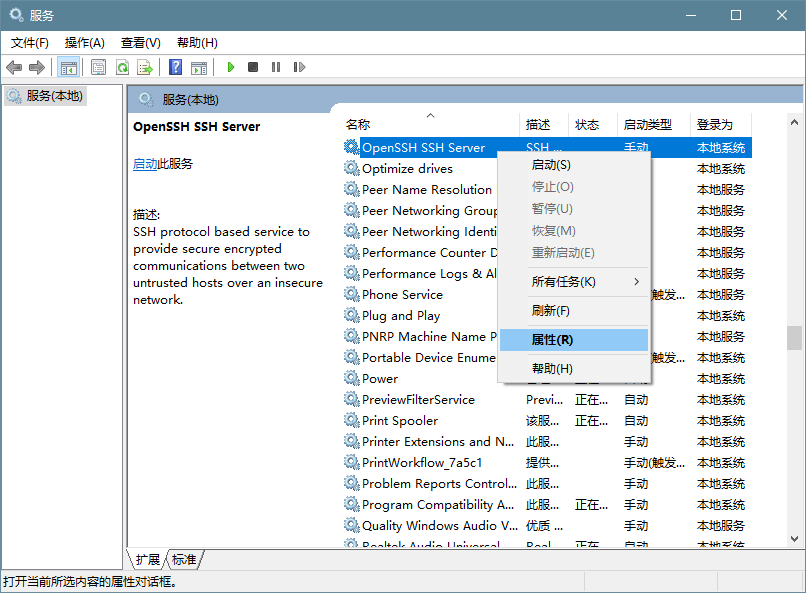
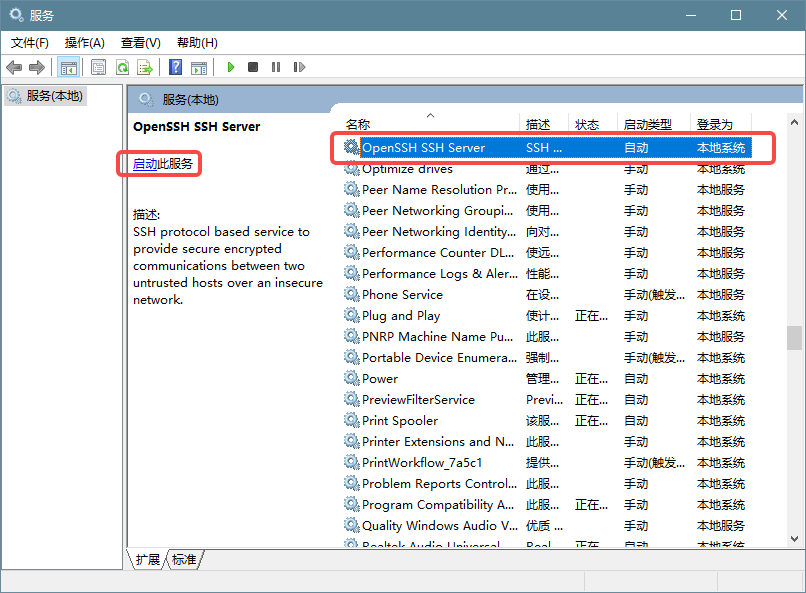
update

Changed region(s): [[0.4032, 0.2125, 0.9615, 0.6678], [0.1241, 0.2428, 0.2481, 0.3035], [0.0, 0.9713, 0.2171, 1.0]]

diff --git a/_posts/配置 Windows 为 SSH 跳板机.md b/_posts/配置 Windows 为 SSH 跳板机.md
@@ -60,6 +60,36 @@ Windows 里 OpenSSH 客户端通常是自带的，但是 OpenSSH 服务器需要
 
 ## 3. 启动 OpenSSH 服务
 
+
+
+这里图形界面和命令行都能完成，随便选个就 OK。
+
+
+
+### 3.1. 图形界面方式
+
+首先在开始菜单里搜索“服务”并打开：
+
+
+
+![打开“服务”](https://gukaifeng.cn/posts/pei-zhi-windows-wei-ssh-tiao-ban-ji/pei-zhi-windows-wei-ssh-tiao-ban-ji_5.png)
+
+
+
+在右侧找到 OpenSSH SSH Server 项，点击左面的“启动”。
+
+
+
+![启动 SSH 服务](https://gukaifeng.cn/posts/pei-zhi-windows-wei-ssh-tiao-ban-ji/pei-zhi-windows-wei-ssh-tiao-ban-ji_6.png)
+
+\-
+
+如果后面不需要了，关闭的方法也是一样的，启动后上图的“启动”的位置会变成“停止”，点一下就关了。
+
+
+
+### 3.2. 命令行方式
+
 以管理员身份打开 PowerShell 或 CMD，输入命令：
 
 ```powershell
@@ -197,13 +227,13 @@ Last login: Mon Apr 10 20:36:55 2023 from 192.168.80.1
 
 找到 OpenSSH SSH Server 项，右键选择“属性”：
 
-![打开 OpenSSH SSH Server 的属性](https://gukaifeng.cn/posts/pei-zhi-windows-wei-ssh-tiao-ban-ji/pei-zhi-windows-wei-ssh-tiao-ban-ji_6.png)
+![打开 OpenSSH SSH Server 的属性](https://gukaifeng.cn/posts/pei-zhi-windows-wei-ssh-tiao-ban-ji/pei-zhi-windows-wei-ssh-tiao-ban-ji_7.png)
 
 
 
 选择“启动类型”为“自动”，然后点击“确定”。
 
-![选择“启动类型”为“自动”](https://gukaifeng.cn/posts/pei-zhi-windows-wei-ssh-tiao-ban-ji/pei-zhi-windows-wei-ssh-tiao-ban-ji_7.png)
+![选择“启动类型”为“自动”](https://gukaifeng.cn/posts/pei-zhi-windows-wei-ssh-tiao-ban-ji/pei-zhi-windows-wei-ssh-tiao-ban-ji_8.png)
 
 这样 SSH 服务就可以开机自启了。
 
